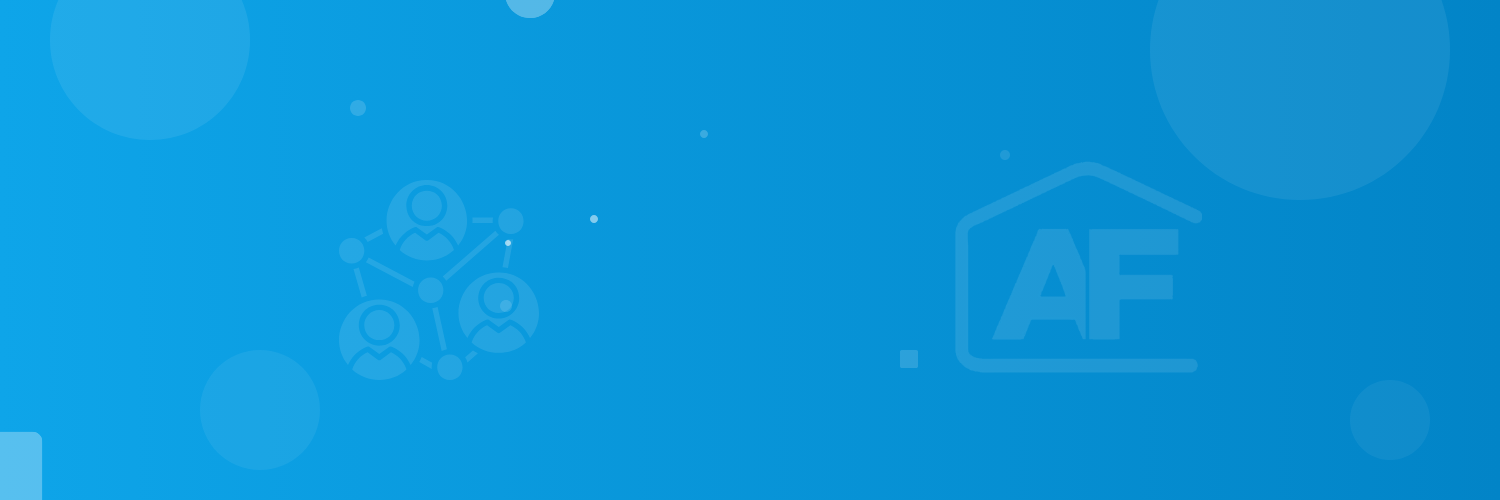
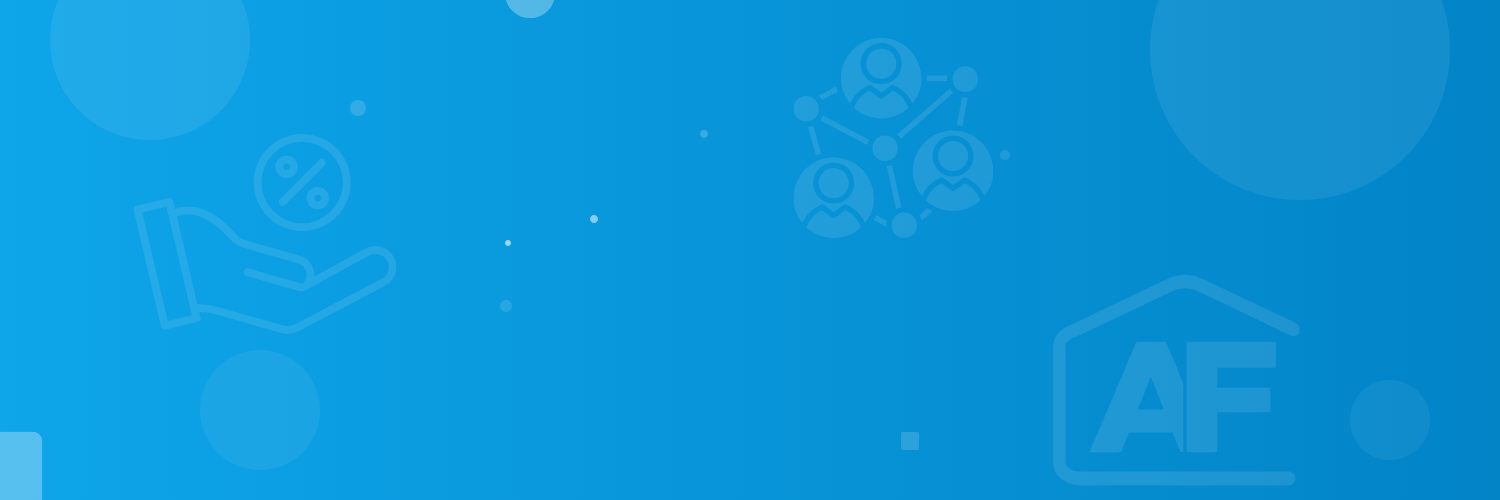
fixed

diff --git a/src/components/Items/ItemList.tsx b/src/components/Items/ItemList.tsx
@@ -7,7 +7,6 @@ import {
   StyleSheet,
   Animated,
 } from 'react-native';
-import { LinearGradient } from 'expo-linear-gradient';
 import { Ionicons } from '@expo/vector-icons';
 import { Colors } from '../../constants/colors';
 
@@ -108,14 +107,6 @@ export default function ItemList({
 
   return (
     <View style={[styles.container, { backgroundColor: colors.bg, borderBottomColor: colors.border }, isSelected && { backgroundColor: colors.selectedBg }]}>
-      {(discount > 0 || !inStock) && (
-        <LinearGradient
-          colors={['transparent', Colors.sky + '15']}
-          style={styles.containerGradient}
-          start={{ x: 0, y: 0 }}
-          end={{ x: 0, y: 1 }}
-        />
-      )}
 
       <TouchableOpacity
         style={styles.checkbox}
@@ -179,39 +170,26 @@ export default function ItemList({
           </View>
 
           <View style={styles.badgeRow}>
-            <LinearGradient
-              colors={[Colors.sky, Colors.skyDark]}
-              start={{ x: 0, y: 0 }}
-              end={{ x: 1, y: 1 }}
-              style={styles.pvBadge}
-            >
+            <View style={[styles.pvBadge, { backgroundColor: Colors.sky }]}>
               <Ionicons name="trending-up" size={10} color={Colors.white} />
               <Text style={styles.pvText}>{product.prodpv ?? 0} PV</Text>
-            </LinearGradient>
+            </View>
 
             {activeBadges.map(b => (
-              <LinearGradient
+              <View
                 key={b.key}
-                colors={b.bg}
-                start={{ x: 0, y: 0 }}
-                end={{ x: 1, y: 1 }}
-                style={styles.productBadge}
+                style={[styles.productBadge, { backgroundColor: Array.isArray(b.bg) ? b.bg[0] : b.bg }]}
               >
                 <Ionicons name={b.icon} size={10} color={Colors.white} />
                 <Text style={styles.productBadgeText}>{b.label}</Text>
-              </LinearGradient>
+              </View>
             ))}
 
             {product.variants && product.variants.length > 0 && (
-              <LinearGradient
-                colors={['#8b5cf6', '#7c3aed']}
-                start={{ x: 0, y: 0 }}
-                end={{ x: 1, y: 1 }}
-                style={styles.variantBadge}
-              >
+              <View style={[styles.variantBadge, { backgroundColor: '#8b5cf6' }]}>
                 <Ionicons name="layers" size={10} color={Colors.white} />
                 <Text style={styles.variantText}>{product.variants.length} variants</Text>
-              </LinearGradient>
+              </View>
             )}
           </View>
 
@@ -232,13 +210,6 @@ const styles = StyleSheet.create({
     gap: 10,
     alignItems: 'flex-start',
     position: 'relative',
-  },
-  containerGradient: {
-    position: 'absolute',
-    top: 0,
-    left: 0,
-    right: 0,
-    bottom: 0,
   },
   containerSelected: {
     backgroundColor: '#f0f7ff',